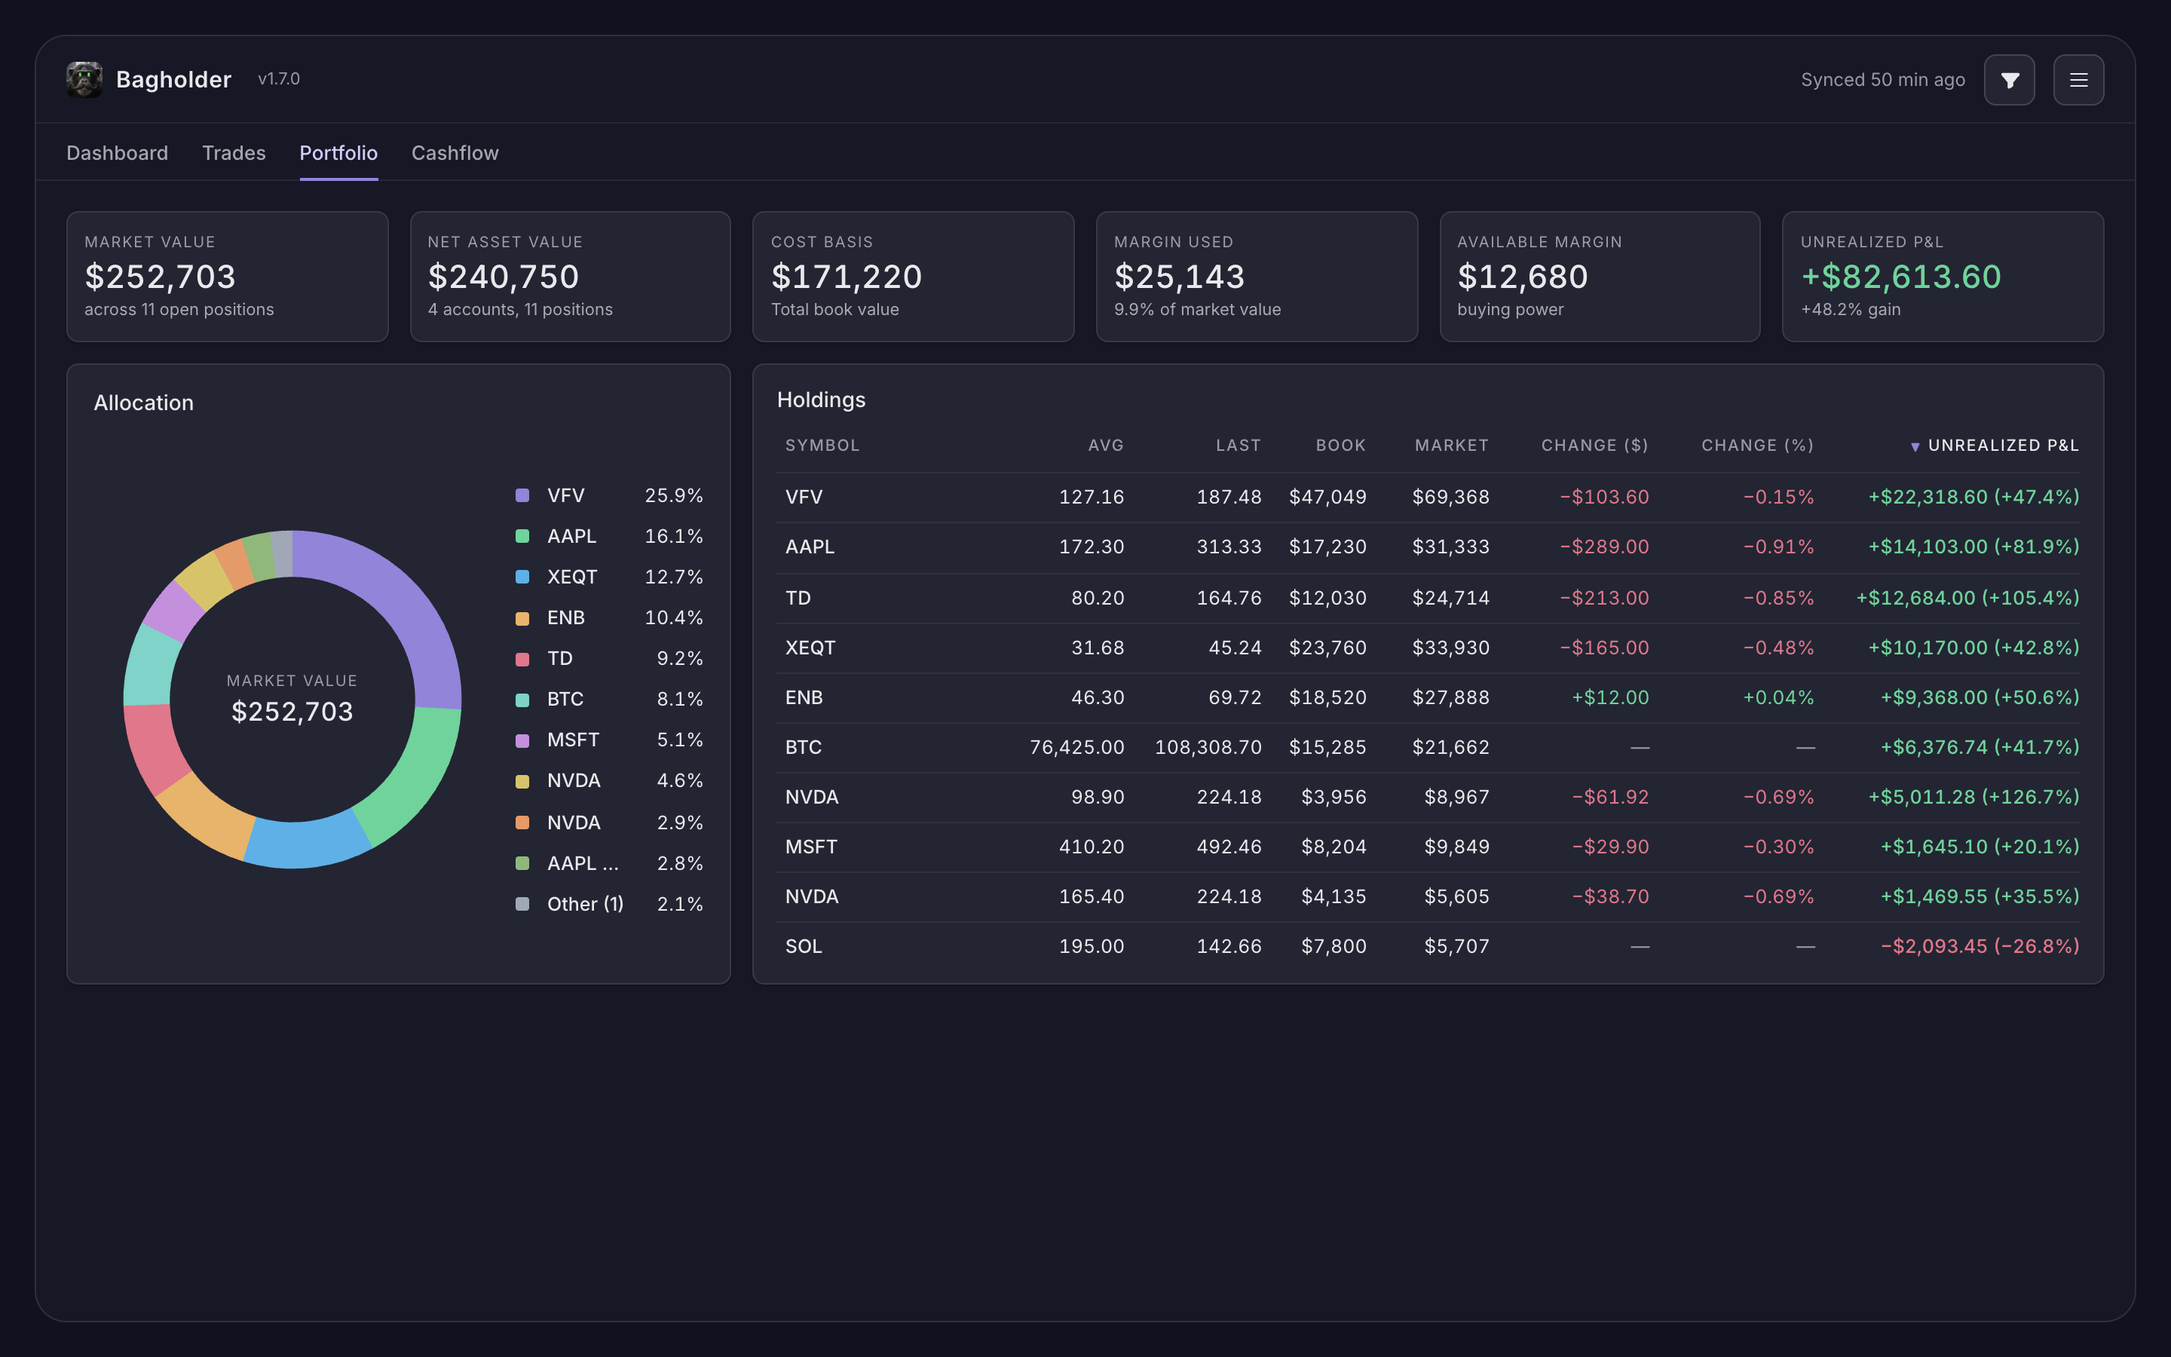
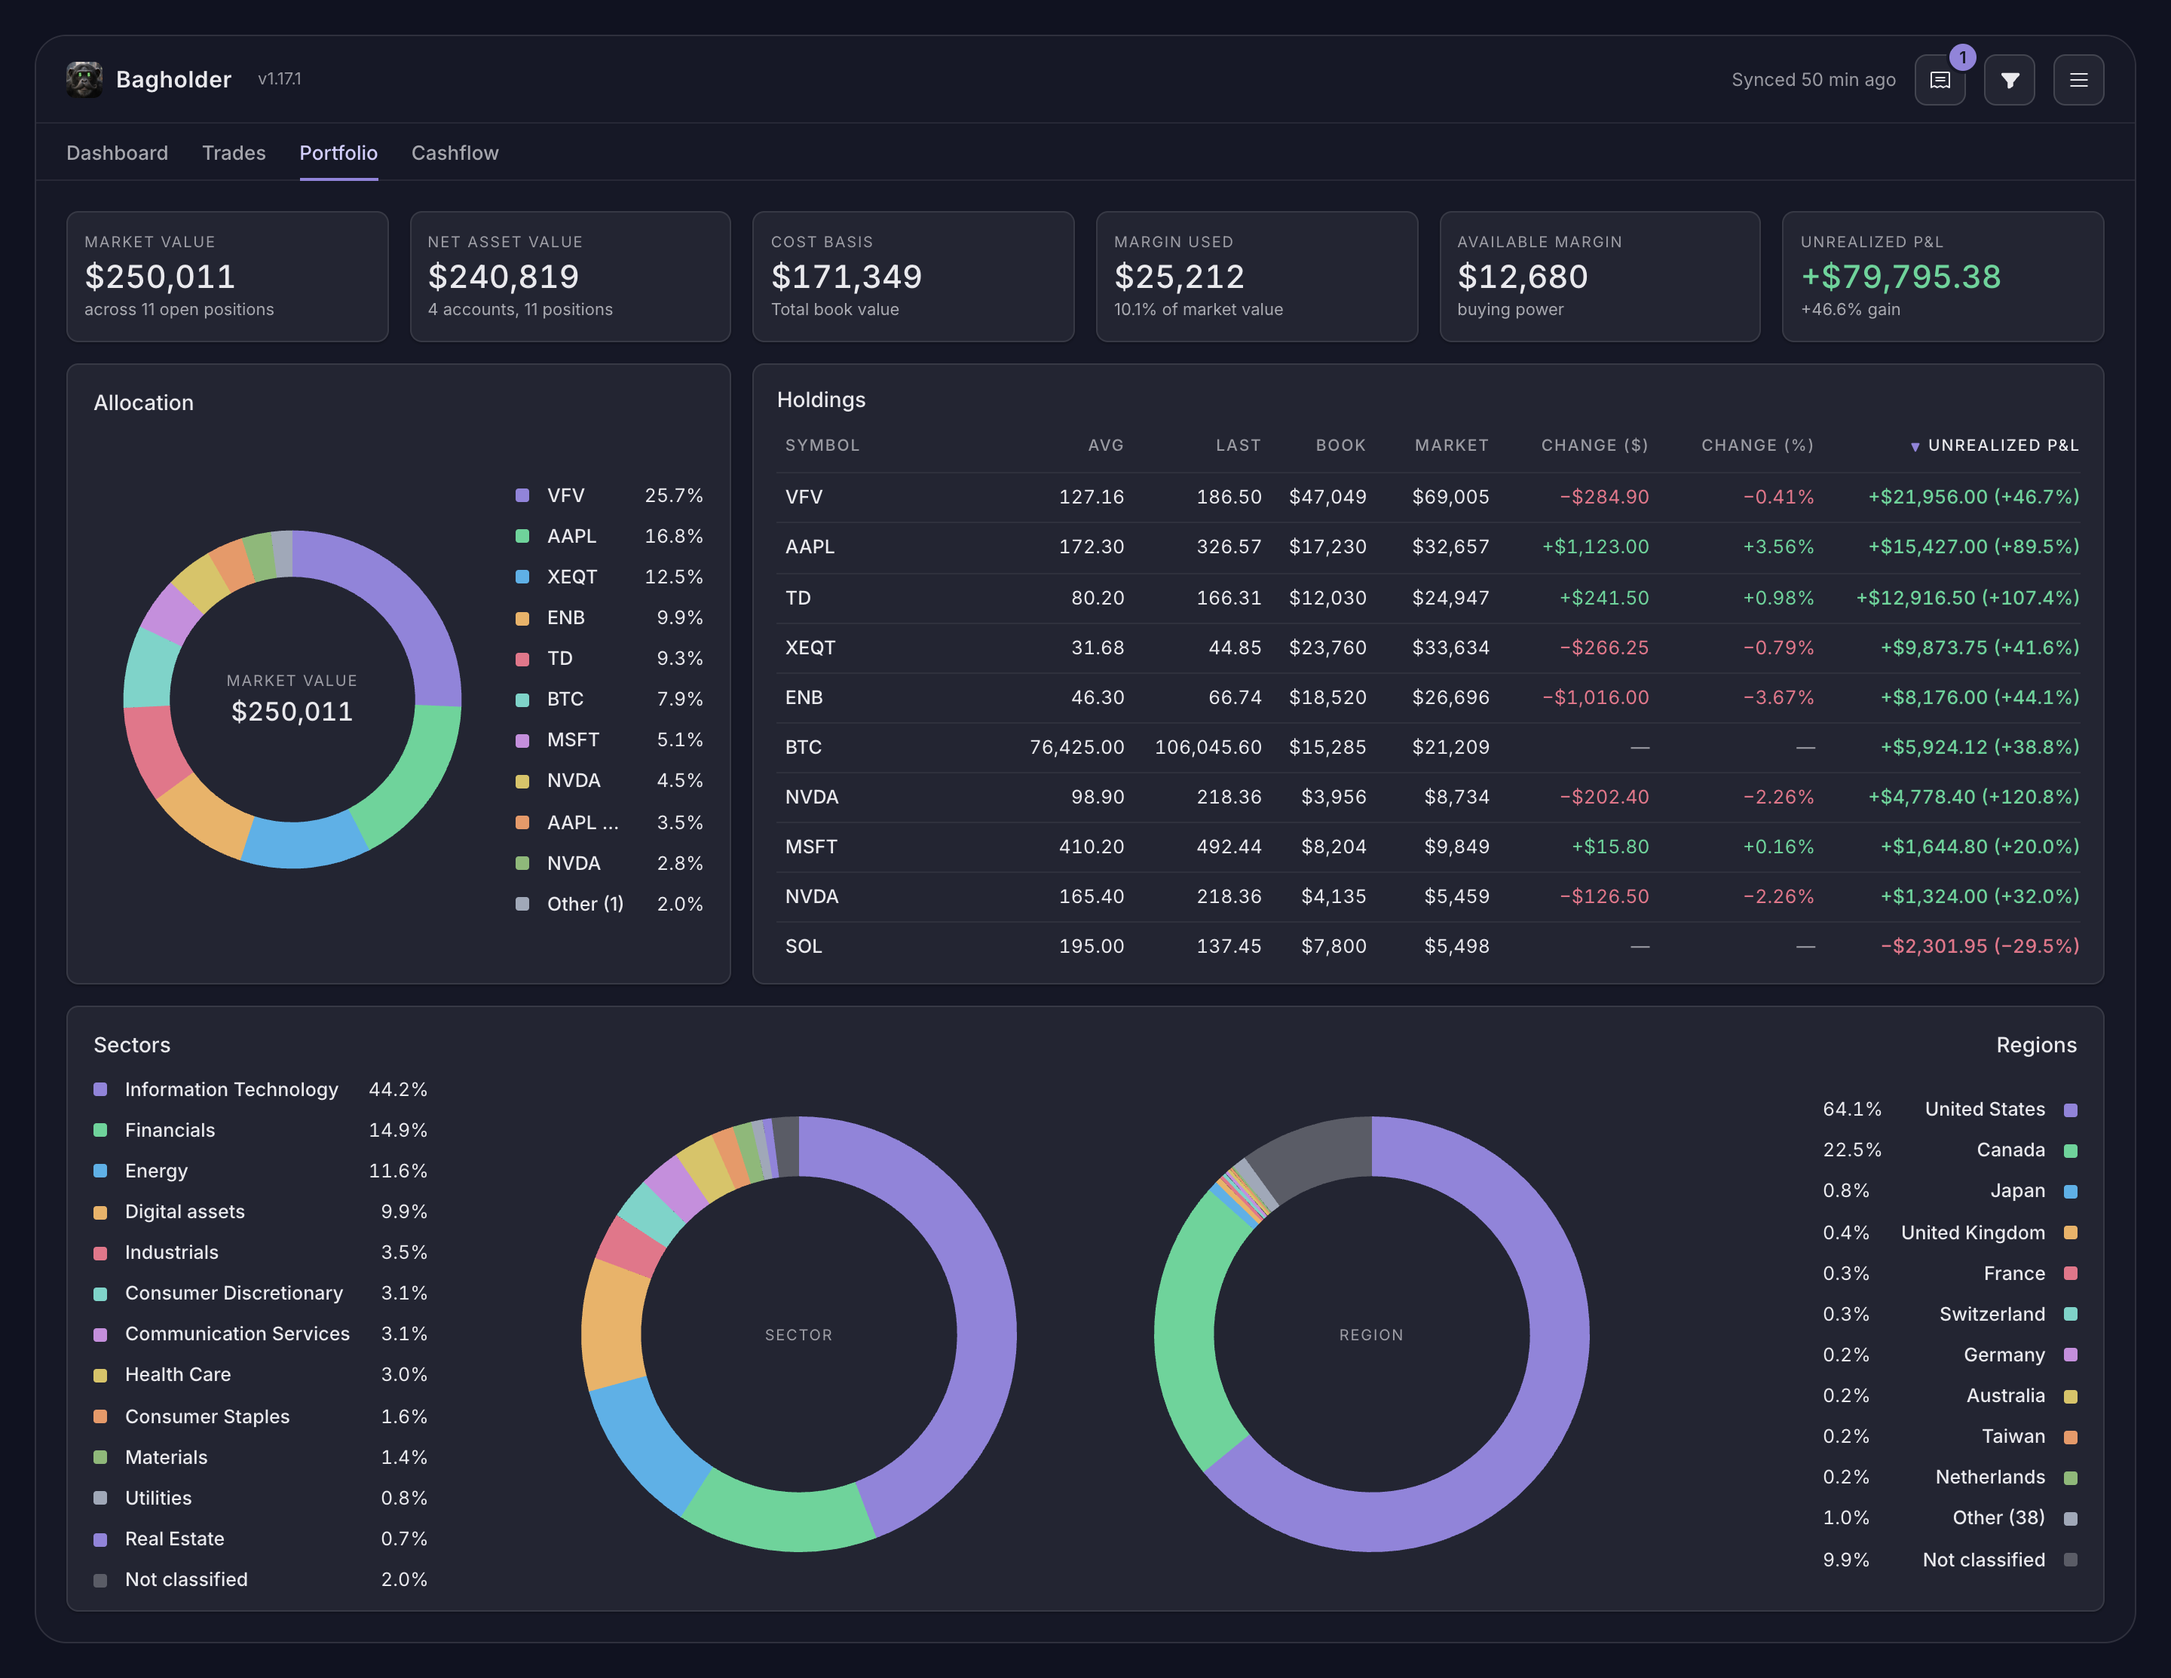
README: the Portfolio still and the desktop tour re-made on v1.17.1 with the Sectors and Regions card.
The Portfolio still is the full page, so the Sectors and Regions card under Allocation and Holdings is in it; the tour stops at the card and hovers a sector. The Portfolio line names the sector and region exposure.

diff --git a/README.md b/README.md
@@ -106,7 +106,7 @@ Trades can also be imported from Wealthsimple's CSV exports, or entered by hand.
 
 - **Dashboard**: realized P&L, win rate, profit factor, expectancy, max drawdown net of deposits and withdrawals, annualized returns vs the S&P 500 or the S&P/TSX Composite, equity curve, monthly P&L, P&L by grade, P&L by symbol, and a review queue of ungraded trades.
 - **Trades**: every closed trade with its executions, a price path across the fills, and a journal with a thesis, a grade and tags. Shares, options and crypto are all matched FIFO per account; covered calls, rolls, expiries and assignments are handled.
-- **Portfolio**: market value, net asset value, cost basis, margin used, available margin and unrealized P&L across the accounts you choose; allocation; every open holding with the day's change, each opening on its own page with the chart, the fills and the journal that becomes the trade's when it closes.
+- **Portfolio**: market value, net asset value, cost basis, margin used, available margin and unrealized P&L across the accounts you choose; allocation; sector and region exposure, every ETF looked through to its holdings from the issuer's own record; every open holding with the day's change, each opening on its own page with the chart, the fills and the journal that becomes the trade's when it closes.
 - **Cashflow**: distributions by month and by holding, with yield on cost and current yield from each fund's declared distributions.
 - **Orders**: an order ticket for shares and ETFs, opened from any symbol in the search list, the book's own or one found by typing (the search asks the exchanges' directories, never Wealthsimple), with a stop loss and a take profit alongside. After a buy fills, the stop loss goes to Wealthsimple as its own stop order, good till cancelled and placed again before Wealthsimple's ninety days end; the take profit is watched and placed as a limit sell when the price reaches it, with the stop level still watched meanwhile. Wealthsimple holds one order on a position's shares at a time, and Bagholder manages that single order so nothing of a bracket's ever outlives the position. An Orders panel from the header lists every order placed here or pending at Wealthsimple with its status read back, its brackets and their state, and lets you adjust a bracket, edit or cancel an open order.
 
